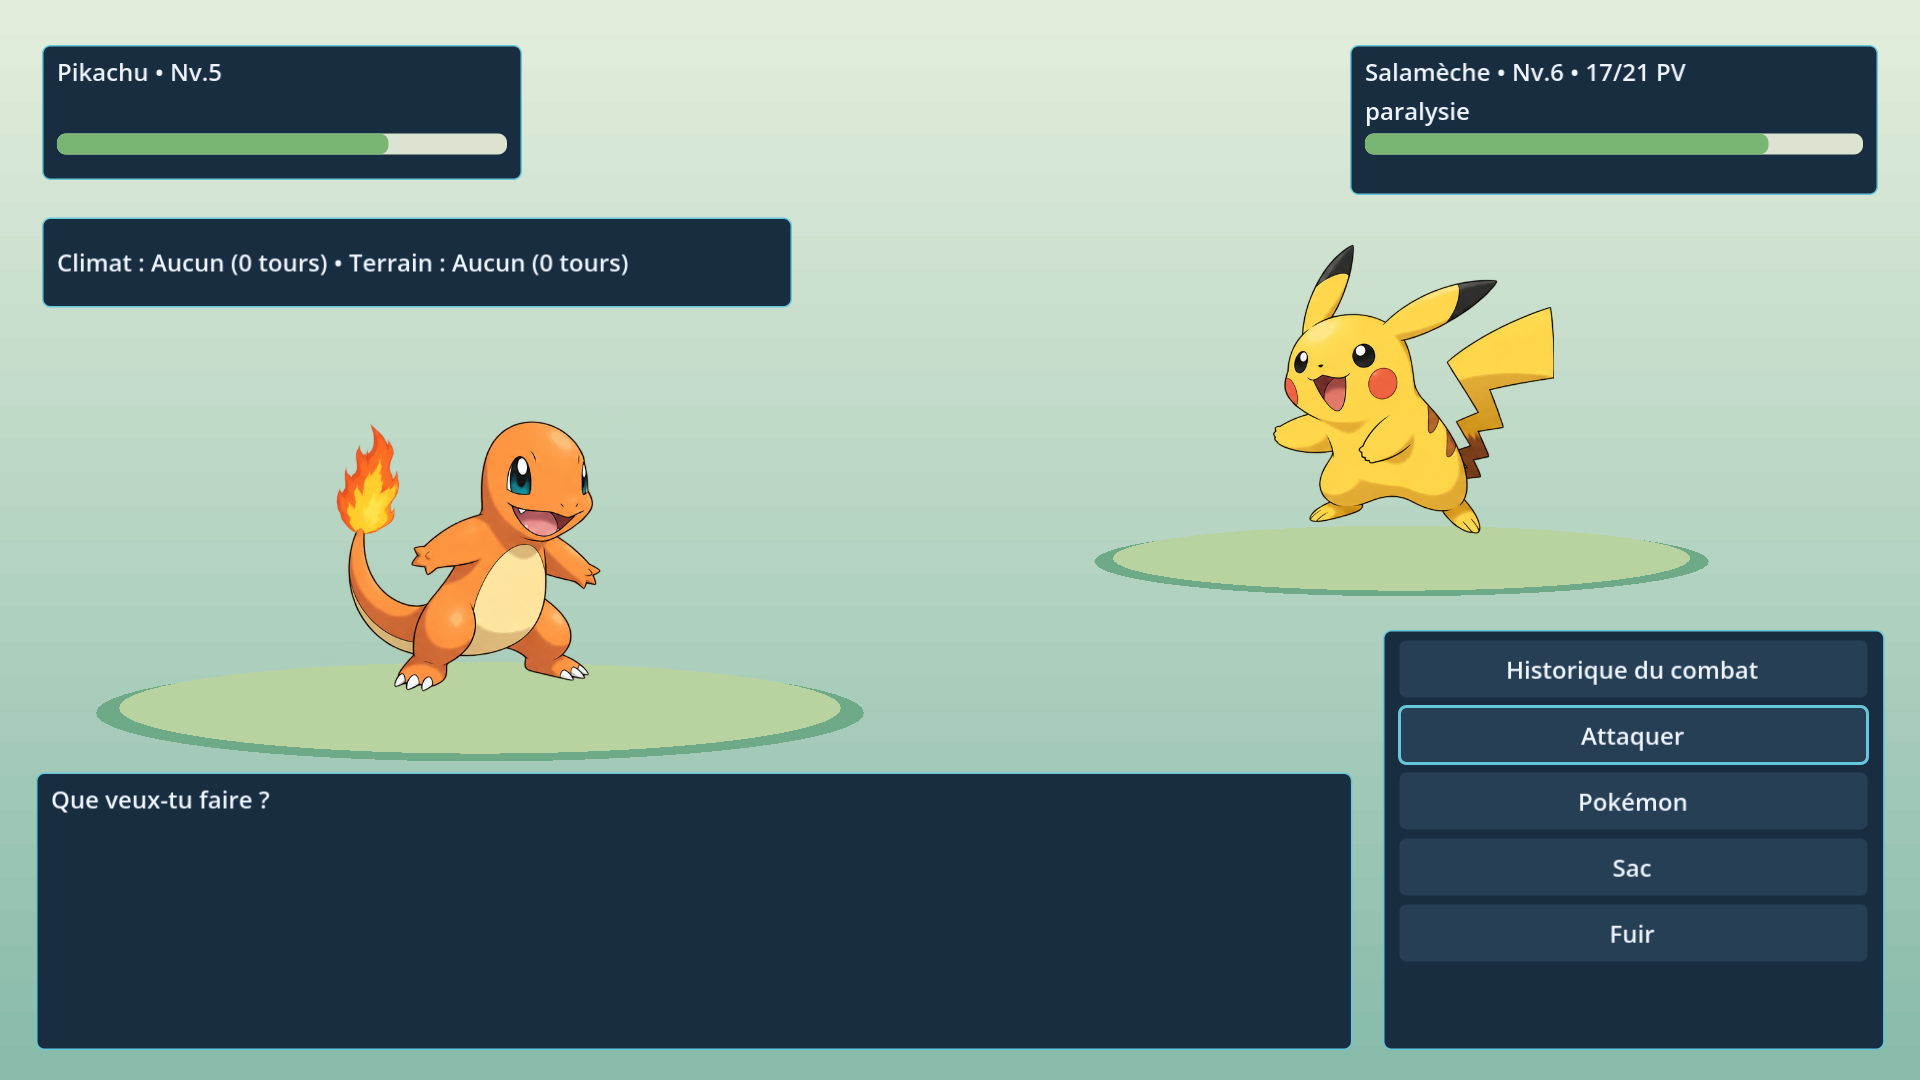
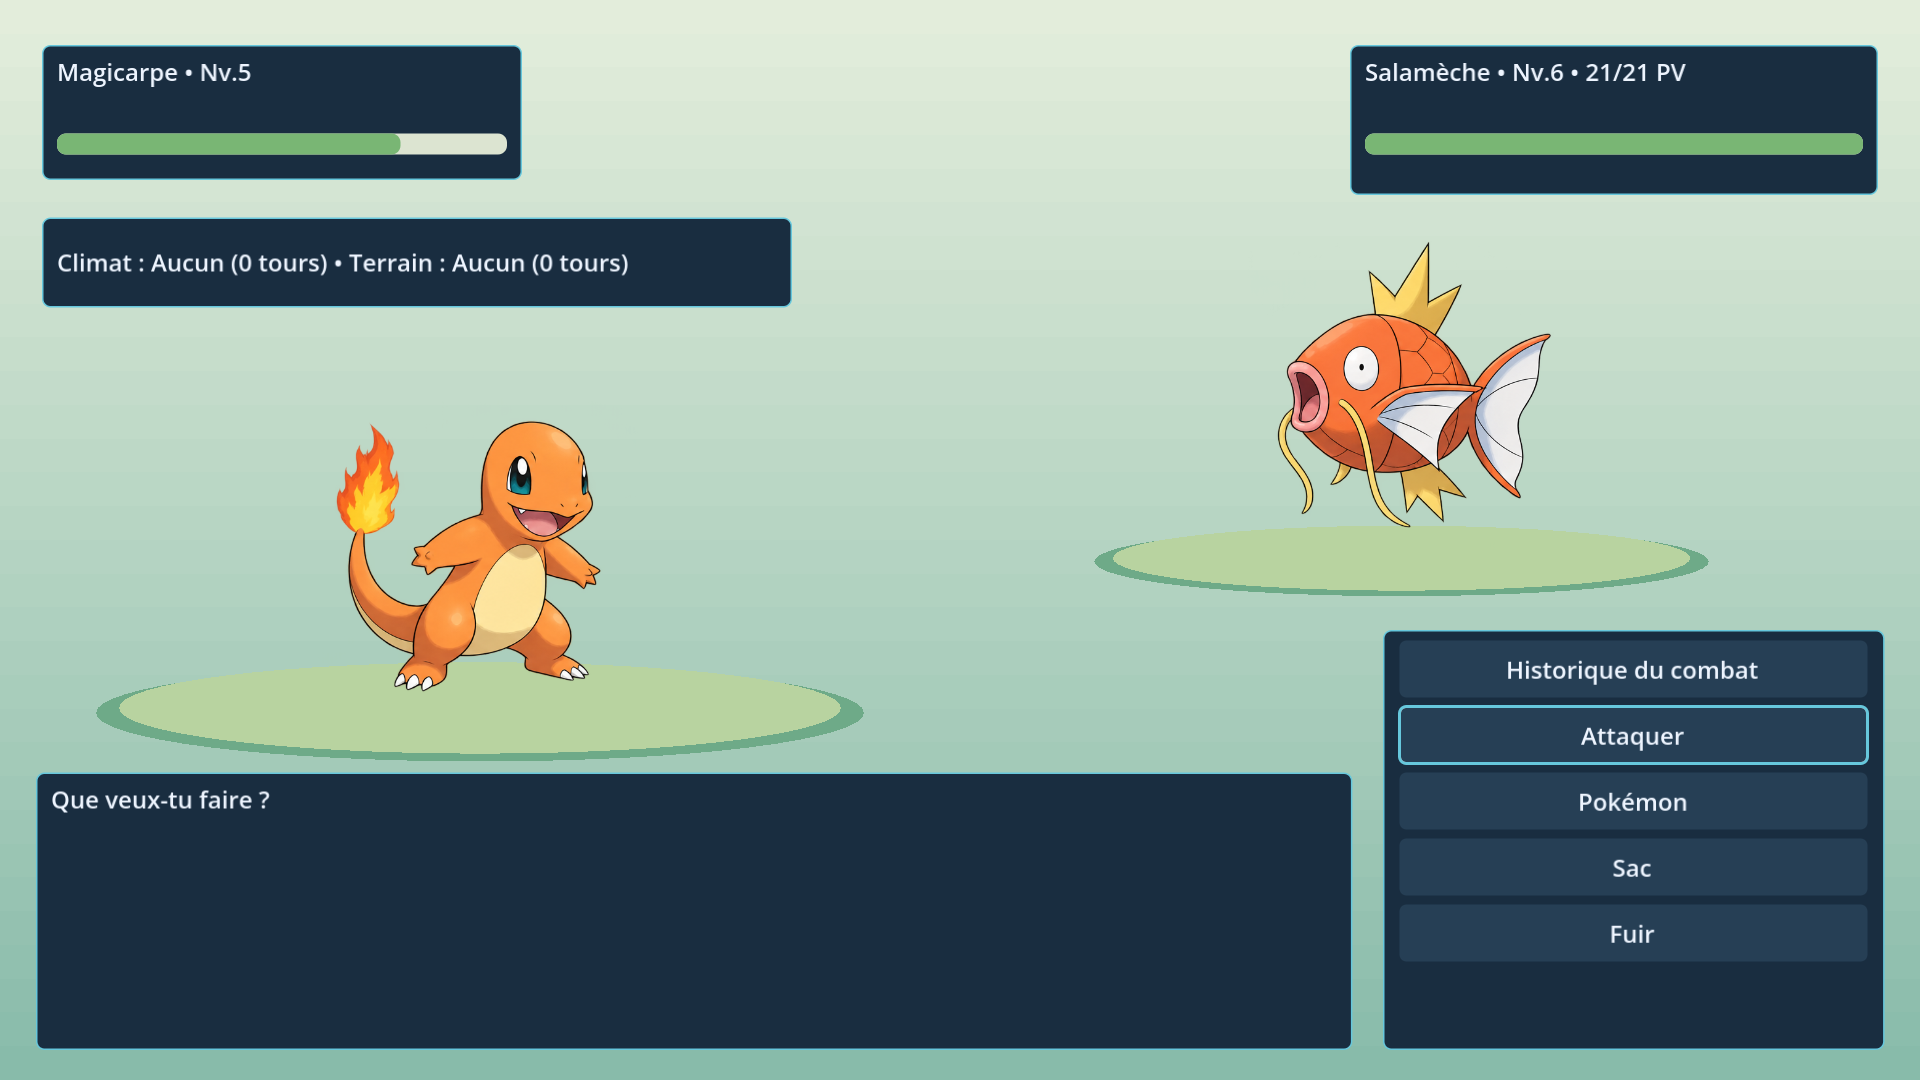
Test battle PP with an opponent that cannot prevent the action

diff --git a/docs/development/VERIFICATION_D79.md b/docs/development/VERIFICATION_D79.md
@@ -6,7 +6,8 @@ Contrôles locaux exécutés le 13 octobre 2026 avec Godot 4.6.3 :
 - `game/tests/drawn_demo.gd` : 61 contrôles headless, aucun échec.
 - Même parcours avec Xvfb/llvmpipe et captures FHD : 68 contrôles, aucun échec après correction des attentes de fin de frame. Les assertions restent identiques : mouvement visible et suppression effective du marqueur/collider.
 - Captures : havre, maison, Centre, boutique, sac, sentier et combat. Les positions de l'infirmière et des portraits ont été corrigées après inspection des images.
-- Export Windows local réalisé ; livraison publique et CI du commit final à consigner après publication.
+- Export Windows local réalisé ; le paquet exporté passe aussi les 61 contrôles du parcours. Livraison publique et CI du commit final à consigner après publication.
+- La première CI (`38471307566`, commit `6ded144`) a échoué sur l’assertion PP : son adversaire Pikachu pouvait empêcher une attaque par statut. Fixture remplacée par Magicarpe, sans neutraliser les règles du simulateur ni retirer l’assertion. La consommation d’un PP doit toujours être observée après une possibilité d’agir sans interruption.
 
 Les contrôles de connectivité globale/passages concernent les collisions réellement utilisées ; un service visible mais inapprochable échoue. L'attaque observée consomme exactement un PP dans le vrai simulateur Showdown. Les sauvegardes graphiques sont isolées ; la campagne atelier ne change pas.
 
